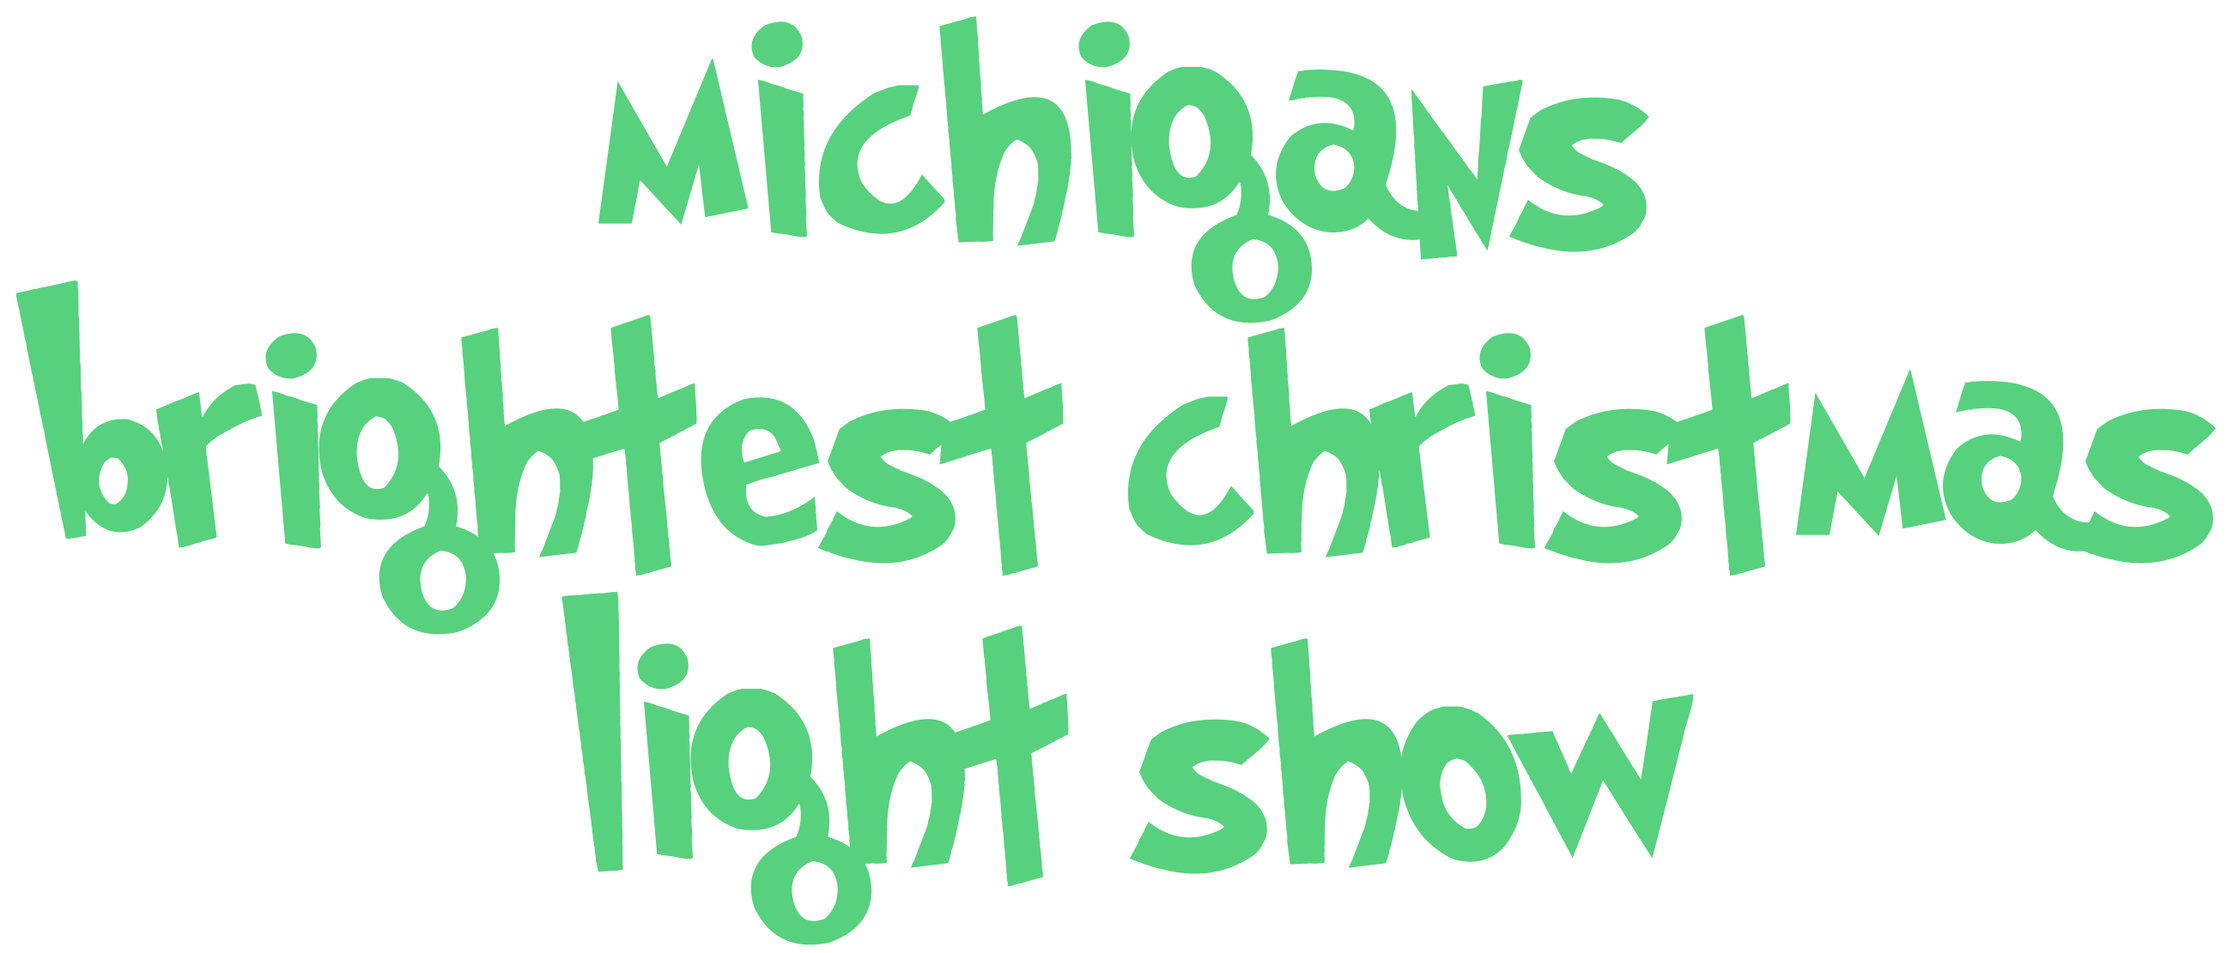
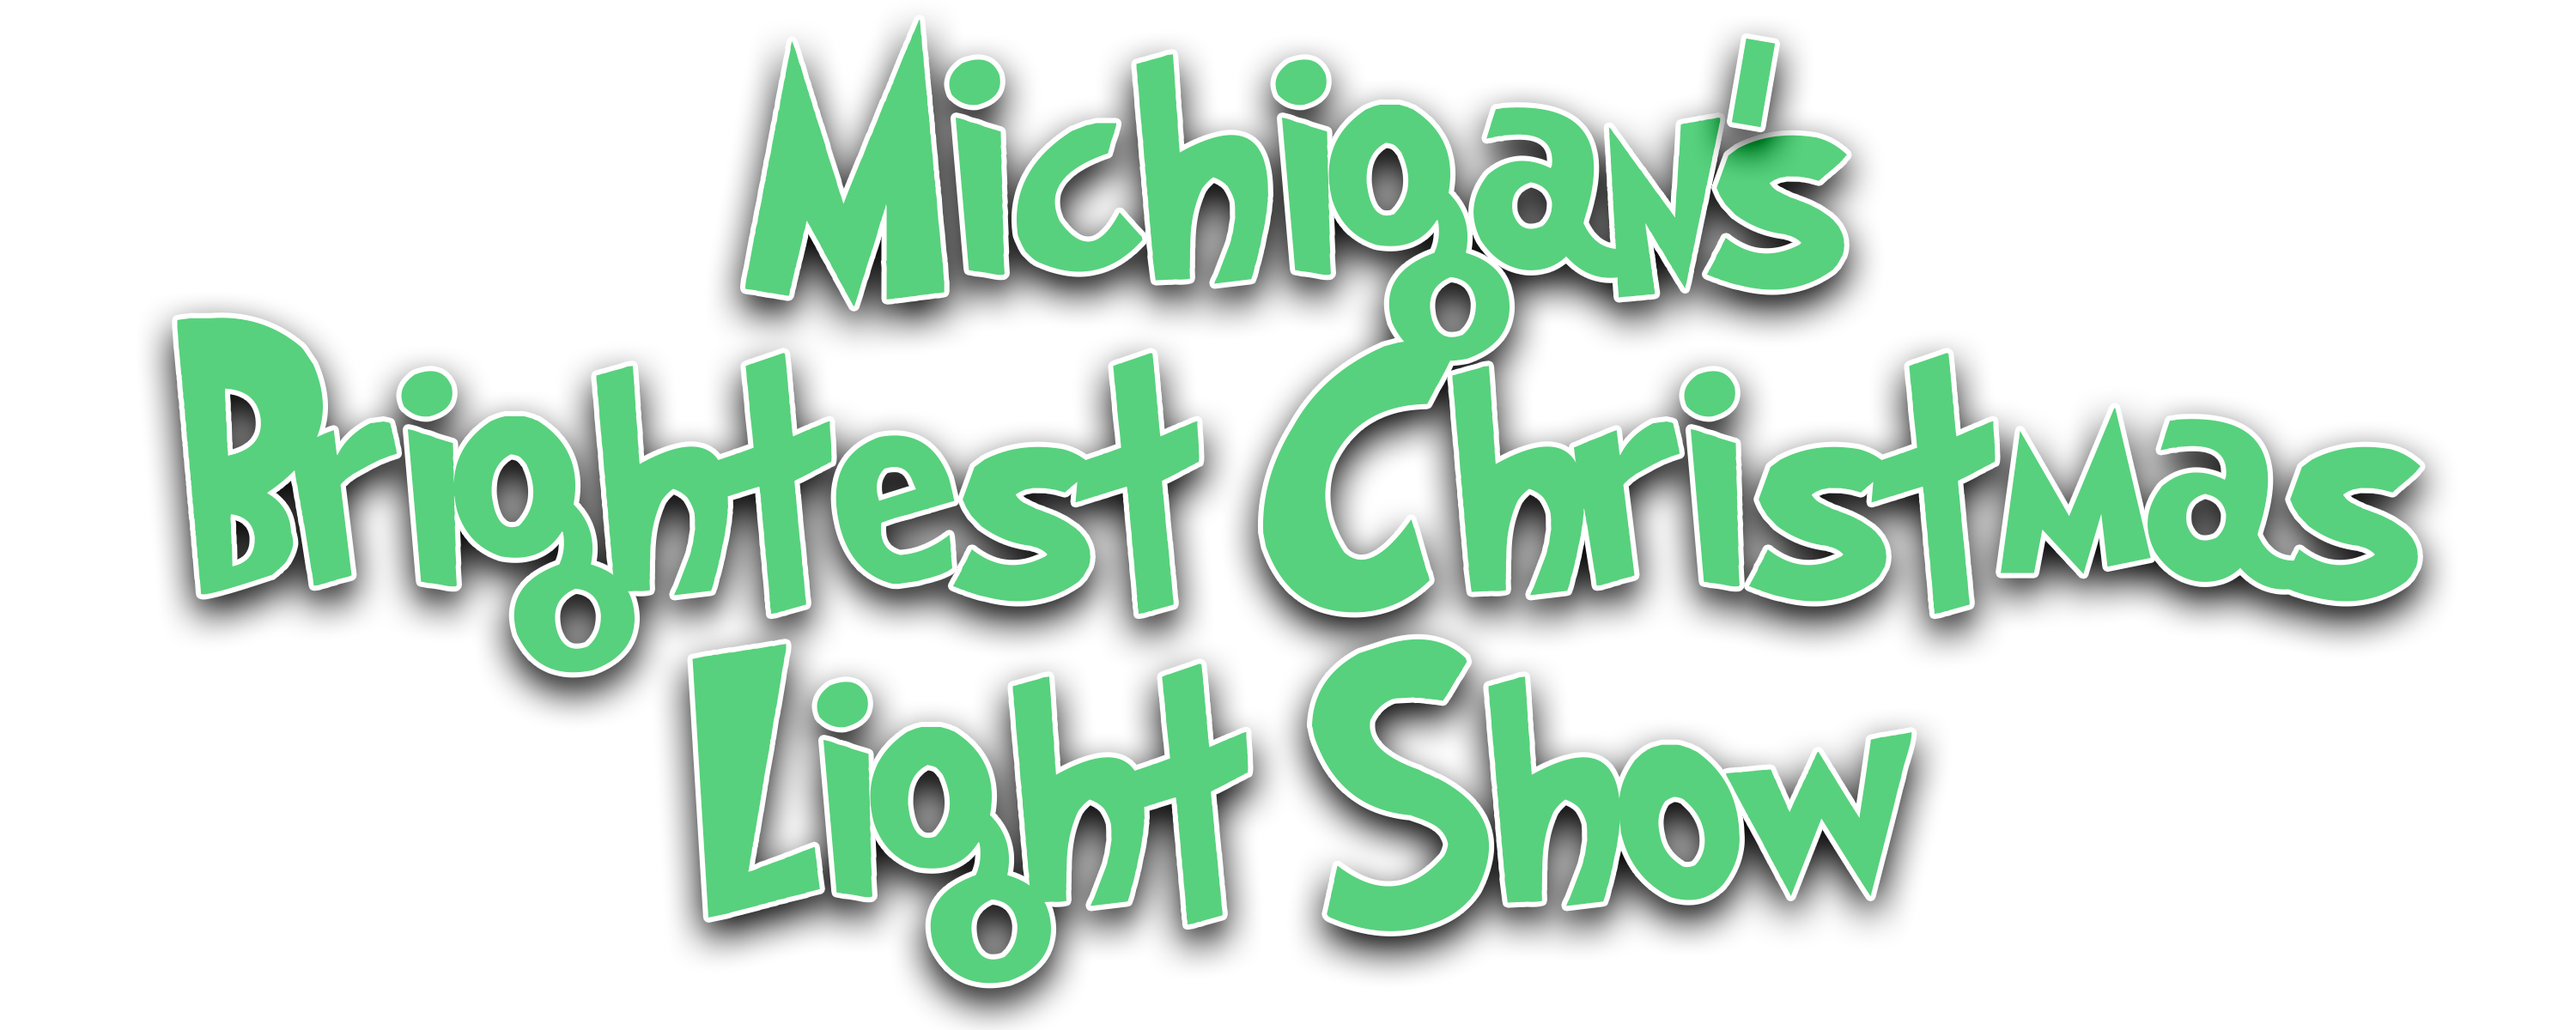
updated styling on hero

diff --git a/src/components/Steps.jsx b/src/components/Steps.jsx
@@ -2,62 +2,68 @@ import React from "react";
 
 const Steps = () => {
   return (
-    <div className="flex flex-col lg:flex-row items-start justify-center align-center pt-10 pb-32">
-      <div className="card bg-base-100 sm:w-80 md:w-96 card-bordered border-sky-200 shadow-[0_0_2px_#fff,inset_0_0_2px_#fff,0_0_5px_#08f,0_0_15px_#08f,0_0_30px_#08f] mx-20 mt-12">
-        <figure className="px-20 md:px-32 lg:px-32 pt-20">
-          <img
-            src="assets\ticketpic.png"
-            alt="Tickets"
-            className="rounded-xl"
-          />
-        </figure>
-        <div className="card-body text-center">
-          <h2 className="card-title text-3xl font-bold justify-center">
-            Tickets
-          </h2>
-          <p className="text-info pb-3">
-            Each vehicle needs a ticket for entry. Recommend purchasing tickets
-            online to secure your spot. Click the "Purchase Tickets" button to
-            buy your ticket(s). Note one ticket for one vehicle entry.
-          </p>
+    <div className="flex flex-col items-center pt-20 pb-20">
+      <div className="flex flex-col lg:flex-row items-start justify-center align-center space-y-12 lg:space-y-0 lg:space-x-12">
+        <div className="card bg-base-100 sm:w-80 md:w-96 card-bordered border-sky-200 shadow-[0_0_2px_#fff,inset_0_0_2px_#fff,0_0_5px_#08f,0_0_15px_#08f,0_0_30px_#08f]">
+          <figure className="px-20 md:px-32 lg:px-32 pt-20">
+            <img
+              src="assets/ticketpic.png"
+              alt="Tickets"
+              className="rounded-xl"
+            />
+          </figure>
+          <div className="card-body text-center">
+            <h2 className="card-title text-3xl font-bold">Tickets</h2>
+            <p className="text-info pb-3">
+              Each vehicle needs a ticket for entry. Recommend purchasing
+              tickets online to secure your spot. Click the "Purchase Tickets"
+              button to buy your ticket(s). Note one ticket for one vehicle
+              entry.
+            </p>
+          </div>
+        </div>
+        <div className="card bg-base-100 sm:w-80 md:w-96 card-bordered border-sky-200 shadow-[0_0_2px_#fff,inset_0_0_2px_#fff,0_0_5px_#08f,0_0_15px_#08f,0_0_30px_#08f]">
+          <figure className="px-20 md:px-32 lg:px-32 pt-20">
+            <img
+              src="assets/gatepic.png"
+              alt="Go to gate"
+              className="rounded-xl"
+            />
+          </figure>
+          <div className="card-body text-center">
+            <h2 className="card-title text-3xl font-bold">Go to the gate</h2>
+            <p className="text-info pb-14">
+              After you purchase your ticket(s), head to our location at Eloise
+              Asylum. You will redeem your ticket(s) at the gate.
+            </p>
+          </div>
+        </div>
+        <div className="card bg-base-100 sm:w-80 md:w-96 card-bordered border-sky-200 shadow-[0_0_2px_#fff,inset_0_0_2px_#fff,0_0_5px_#08f,0_0_15px_#08f,0_0_30px_#08f]">
+          <figure className="px-20 md:px-32 lg:px-32 pt-20">
+            <img
+              src="assets/popcornpic.png"
+              alt="Sit back and relax"
+              className="rounded-xl"
+            />
+          </figure>
+          <div className="card-body text-center">
+            <h2 className="card-title text-3xl font-bold">
+              Sit back and relax
+            </h2>
+            <p className="text-info">
+              Once you're here, it's time for the whole family to experience the
+              magical lights that are Mi Bright Lights! Sit back, relax, and
+              enjoy the festive music and brilliant lights.
+            </p>
+          </div>
         </div>
       </div>
-      <div className="card bg-base-100 sm:w-80 md:w-96 card-bordered border-sky-200 shadow-[0_0_2px_#fff,inset_0_0_2px_#fff,0_0_5px_#08f,0_0_15px_#08f,0_0_30px_#08f] mx-20 mt-12">
-        <figure className="px-20 md:px-32 lg:px-32 pt-20">
-          <img
-            src="assets\gatepic.png"
-            alt="Go to gate"
-            className="rounded-xl"
-          />
-        </figure>
-        <div className="card-body text-center">
-          <h2 className="card-title text-3xl font-bold justify-center">
-            Go to the gate
-          </h2>
-          <p className="text-info pb-14">
-            After you purchase your ticket(s), head to our location at Eloise
-            Asylum. You will redeem your ticket(s) at the gate.
-          </p>
-        </div>
-      </div>
-      <div className="card bg-base-100 sm:w-80 md:w-96 card-bordered border-sky-200 shadow-[0_0_2px_#fff,inset_0_0_2px_#fff,0_0_5px_#08f,0_0_15px_#08f,0_0_30px_#08f] mx-20 mt-12">
-        <figure className="px-20 md:px-32 lg:px-32 pt-20">
-          <img
-            src="assets\popcornpic.png"
-            alt="Sit back and relax"
-            className="rounded-xl"
-          />
-        </figure>
-        <div className="card-body text-center">
-          <h2 className="card-title text-3xl font-bold justify-center">
-            Sit back and relax
-          </h2>
-          <p className="text-info">
-            Once you're here, it's time for the whole family to experience the
-            magical lights that are Mi Bright Lights! Sit back, relax, and enjoy
-            the festive music and brilliant lights.
-          </p>
-        </div>
+      <div className="mt-24">
+        <img
+          src="assets/mibrightlights.png"
+          alt="Mi Bright Lights"
+          className="max-w-3xl max-w-md"
+        />
       </div>
     </div>
   );

diff --git a/src/components/Hero.jsx b/src/components/Hero.jsx
@@ -10,12 +10,13 @@ const Hero = () => {
       }}
     >
       <div className="hero-overlay bg-opacity-60"></div>
-      <div className="hero-content text-neutral-content text-center">
-        <div className="max-w-md">
+      <div className="hero-content text-neutral-content text-center flex flex-col items-center justify-center min-h-screen">
+        <div className="max-w-md pb-32">
           {/* <h1 className="mb-5 text-7xl font-heading text-secondary">
             Michigan's Brightest Christmas Light Show
           </h1> */}
-          <img className="mb-4 w-full" src="assets\herotext.png"></img>
+          <img className="pb-20" src="assets\comingnov2024.png"></img>
+          <img className="mb-4 max-w" src="assets\herotext.png"></img>
           <a href="https://app.gopassage.com/venues/7938">
             <button className="btn px-5 py-2.5 me-2 mb-2 w-30 h-10 items-center text-sky-200 border-2 rounded-lg border-sky-200 shadow-[0_0_2px_#fff,inset_0_0_2px_#fff,0_0_5px_#08f,0_0_15px_#08f,0_0_30px_#08f]">
               Buy Your Tickets Now
